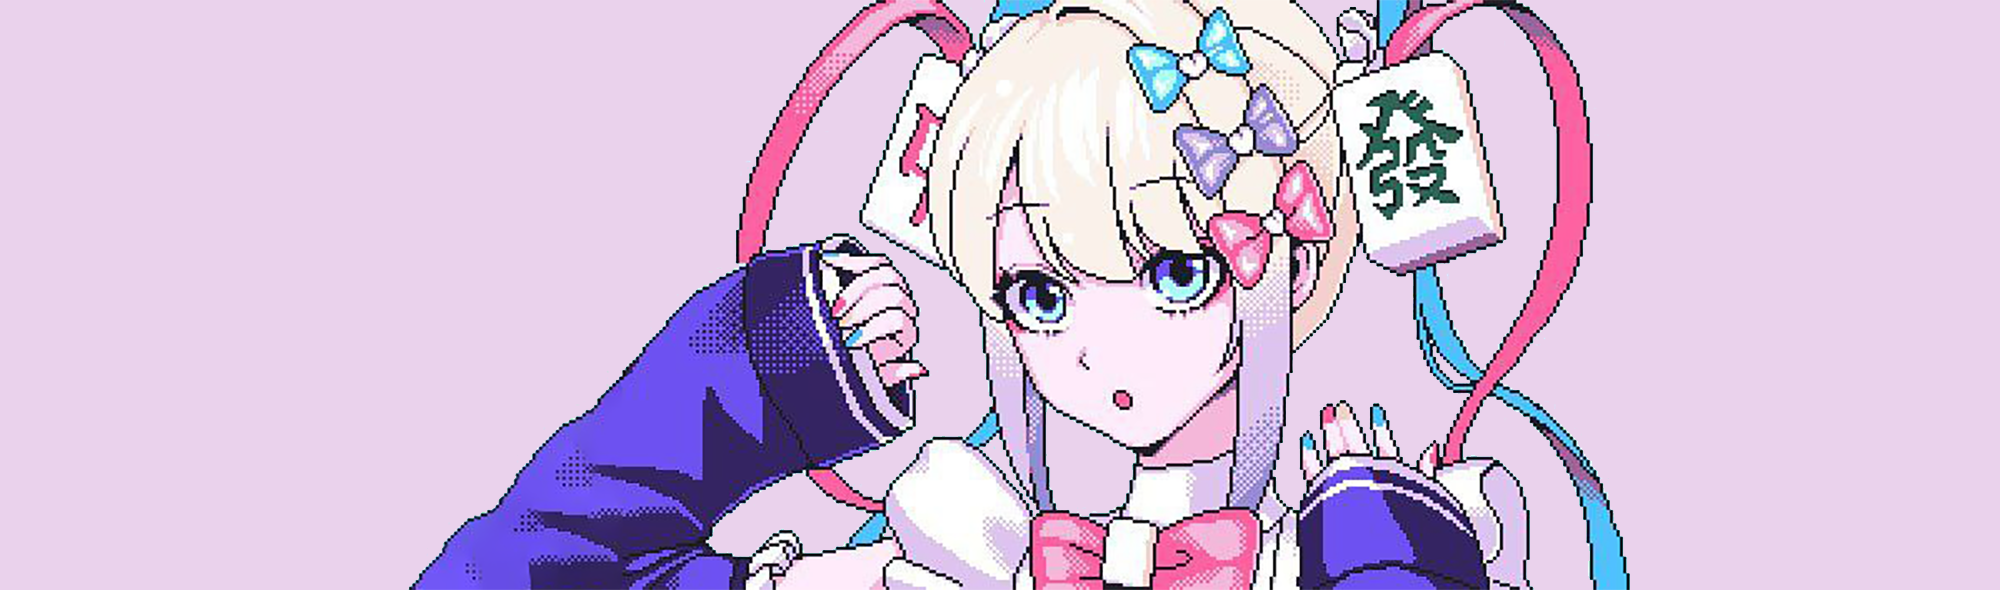
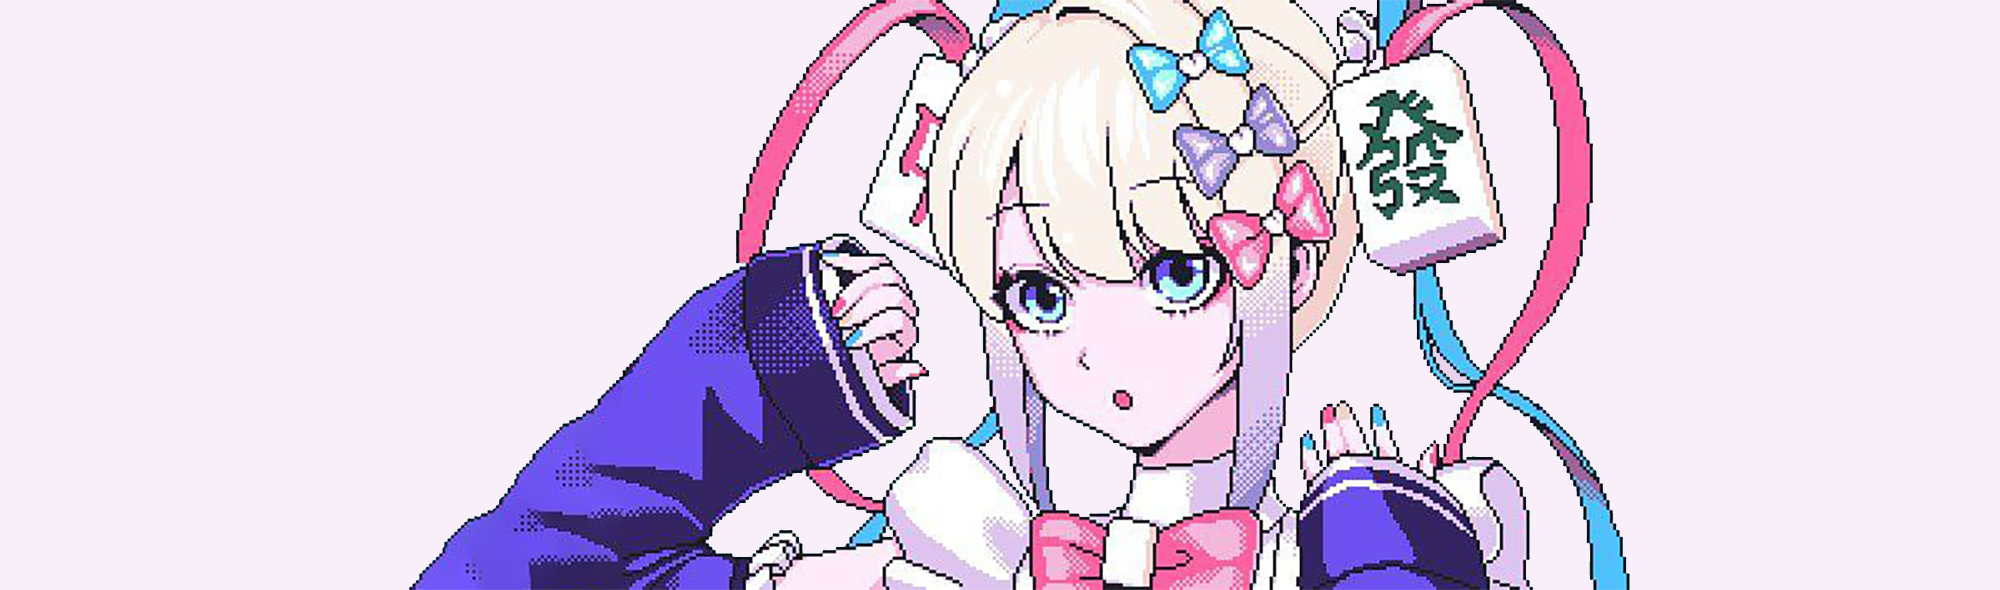
implemented on hover for windows, going well

diff --git a/homestyles.css b/homestyles.css
@@ -88,15 +88,11 @@ body {
     background-position: center;
 }
 
-#toppart {
-    border: solid;
-    border-color: #462DC6;
-    margin-bottom: 10px;
-}
+
 /* navigation section!! */
 #navbar {
     height: 40px;
-    background-color: #ead2ec;
+    background-color: #f9eff9;
     /* navbar color */
     width: 100%;
     border-top: solid;
@@ -138,9 +134,9 @@ body {
         if you want to style them separately,
         create styles for #leftSidebar and #rightSidebar */
 aside {
-    background-color: #ead2ec;
+    background-color: #f9eff9;
     width: 200px;
-/*    padding: 20px;*/
+    /*    padding: 20px;*/
     font-size: smaller;
     /* this makes the sidebar text slightly smaller */
 }
@@ -149,9 +145,9 @@ aside {
 /* this is the color of the main content area,
         between the sidebars! */
 main {
-    background-color: #ead2ec;
+    background-color: #f9eff9;
     flex: 1;
-/*    padding: 20px;*/
+    /*    padding: 20px;*/
     order: 2;
     border: solid;
     border-color: #462DC6;
@@ -172,7 +168,7 @@ main {
 }
 
 footer {
-    background-color: #ead2ec;
+    background-color: #f9eff9;
     /* background color for footer */
     width: 100%;
     height: 40px;
@@ -208,19 +204,52 @@ strong {
 
 /* CSS for extras */
 
+#toppart {
+    background-color: #ead2ec;
+    border: solid;
+    border-color: #462DC6;
+    margin-bottom: 10px;
+    border-width: 2px;
+}
+
 #topBar {
     display: flex; /* Add this to enable Flexbox */
     align-items: center; /* Vertically center items */
     justify-content: flex-start; /* Align items to the left */
     width: 100%;
     height: 30px;
-    padding: 10px;
+    padding: 3px;
     /*font-size: smaller;*/
     color: #462DC6;
-    background-color: #ead2ec;
+    background-color: #e2e2e2;
     border-bottom: solid;
     border-color: #462DC6;
+    border-width: 2px;
 }
+
+    #topBar:hover {
+        background-color: #94f1e1;
+    }
+
+#internaltopBar {
+    display: flex; /* Add this to enable Flexbox */
+    align-items: center; /* Vertically center items */
+    justify-content: flex-start; /* Align items to the left */
+    width: 100%;
+    height: 22px;
+    padding: 5px;
+    font-weight: bold;
+    font-size: medium;
+    color: #462DC6;
+    background-color: #e2e2e2;
+    border: solid;
+    border-color: #462DC6;
+    border-width: 2px;
+}
+
+    #internaltopBar:hover {
+        background-color: #ead2ec;
+    }
 
 #leftSidebarTopBar {
     display: flex;
@@ -229,10 +258,13 @@ strong {
     height: 30px;
     padding: 10px;
     color: #462DC6;
-    background-color: #ead2ec;
+    background-color: #e2e2e2;
     border-bottom: solid;
     border-color: #462DC6;
 }
+    #leftSidebarTopBar:hover {
+        background-color: #ead2ec;
+    }
 
 
 #leftSidebar {
@@ -248,10 +280,14 @@ strong {
     height: 30px;
     padding: 10px;
     color: #462DC6;
-    background-color: #ead2ec;
+    background-color: #e2e2e2;
     border-bottom: solid;
     border-color: #462DC6;
 }
+
+    #mainTopBar:hover {
+        background-color: #ead2ec;
+    }
 
 #bottomBarMargin {
     padding: 20px;
